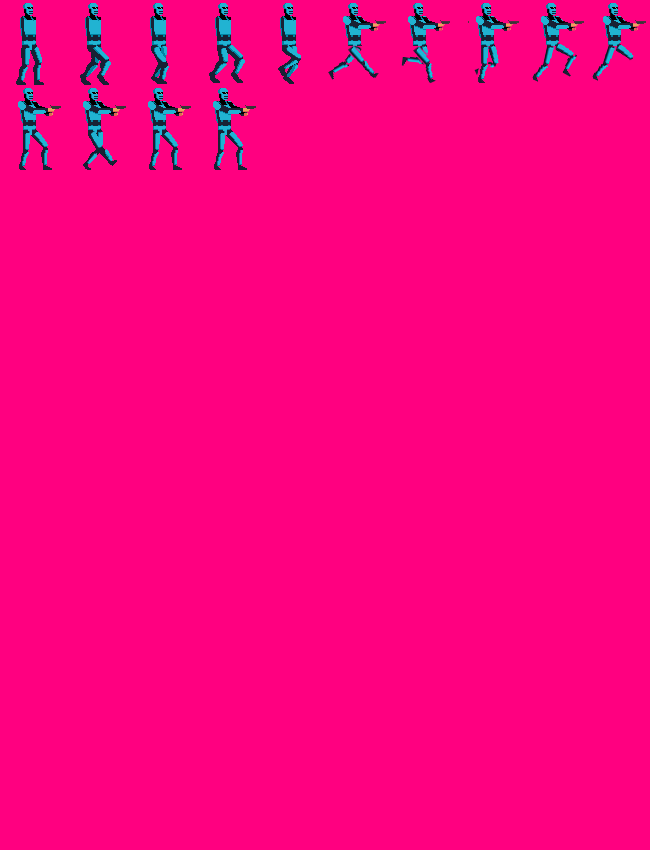
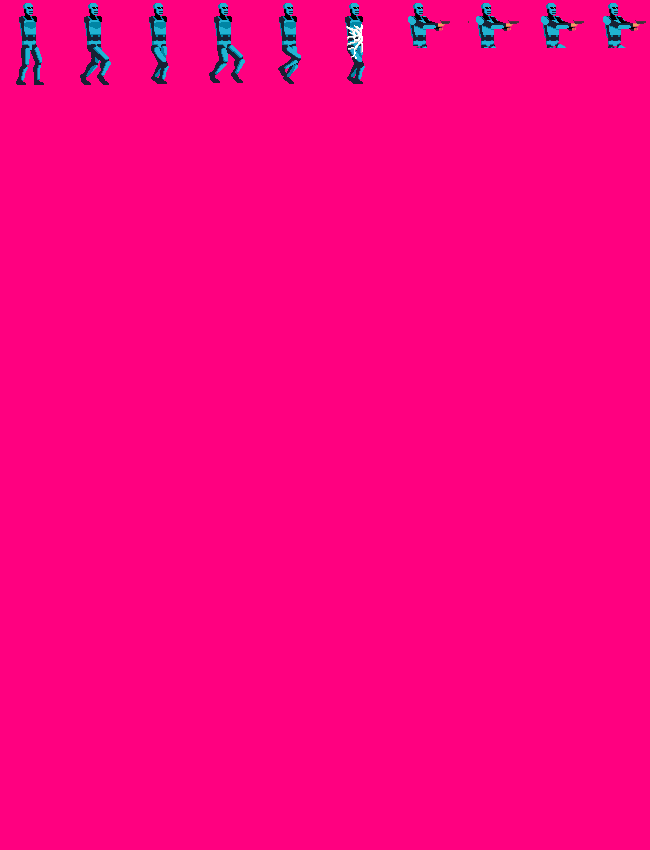
added spider blobs and webs

diff --git a/enemy.py b/enemy.py
@@ -78,6 +78,8 @@ class Spider(Enemy):
         self.frame = 0
         self.dead = False
         self.death_sound = assets.spider_death_sound
+        self.shoot_timer = 5
+        self.alt_shoot_timer = 20
 
         self.walking_frames = []
         self.death_frames = []
@@ -143,10 +145,13 @@ class Spider(Enemy):
 
     def update(self, player, world_shift, current_level):
         if self.health > 0:
-            if player.rect.x + world_shift < self.rect.x + 100:
+            if player.rect.x > self.rect.x - 800 and player.rect.x <= self.rect.x - 80:
                 self.change_x = -self.speed
-            elif player.rect.x + world_shift == self.rect.x:
+                if player.rect.x > self.rect.x - 500:
+                    self.alt_shoot_timer = self.shoot(projectiles.SpiderBlob(), self.alt_shoot_timer, player, current_level)
+            elif player.rect.x > self.rect.x - 80:
                 self.change_x = 0
+                self.shoot_timer = self.shoot(projectiles.SpiderWeb(), self.shoot_timer, player, current_level)
             else:
                 self.change_x = 0
             self.get_frame()
@@ -156,6 +161,16 @@ class Spider(Enemy):
         self.calc_grav()
         self.move()
         self.collide(current_level)
+
+    def shoot(self, projectile, timer, player, current_level):
+        timer -= 1
+        if timer == 0:
+            timer = projectile.reset_timer()
+            new_projectile = projectile
+            new_projectile.rect.x = self.rect.x + new_projectile.origin_x
+            new_projectile.rect.y = self.rect.y + new_projectile.origin_y
+            current_level.enemy_projectiles_list.add(new_projectile)
+        return(timer)
 
     def get_frame(self):
         if self.change_x > 0 or self.change_x < 0:
@@ -178,6 +193,8 @@ class Robot(Enemy):
         self.dead = False
         self.death_sound = assets.spider_death_sound
         self.shoot_timer = 60
+        self.reg_fire = type(RobotMissile())
+        self.alt_fire = None
 
         self.walking_frames = []
         self.death_frames = []
@@ -264,7 +281,6 @@ class Robot(Enemy):
         self.death_frames.append(image)
         self.death_frames.append(image)
 
-
         self.image = self.walking_frames[self.frame]
         self.rect = self.image.get_rect()
 
@@ -273,7 +289,7 @@ class Robot(Enemy):
             if player.rect.x > self.rect.x - 800 and player.rect.x < self.rect.x - 200:
                 self.change_x = -self.speed
             if player.rect.x > self.rect.x - 800:
-                self.shoot(player, current_level)
+                self.shoot(self.reg_fire, player, current_level)
                 if player.rect.x > self.rect.x - 150:
                     self.change_x = 0
             self.get_frame()
@@ -284,8 +300,7 @@ class Robot(Enemy):
         self.move()
         self.collide(current_level)
 
-    def shoot(self, player, current_level):
-        print(self.shoot_timer)
+    def shoot(self, projectile, player, current_level):
         self.shoot_timer -= 1
         if self.shoot_timer == 0:
             self.shoot_timer = random.randrange(90, 210, 30)

diff --git a/projectiles.py b/projectiles.py
@@ -1,4 +1,5 @@
 import pygame
+import random
 import assets
 
 
@@ -18,6 +19,7 @@ class Bullet(Projectile):
     def __init__(self):
         super().__init__(4, 4, 20, assets.green)
         self.damage = 10
+        self.timeout = 6000
 
 
 class RobotBullet(Projectile):
@@ -25,6 +27,7 @@ class RobotBullet(Projectile):
         super().__init__(4, 4, 10, assets.red)
         self.damage = 5
         self.change_x = self.speed
+        self.timeout = 6000
 
 
 class RobotMissile(Projectile):
@@ -32,4 +35,41 @@ class RobotMissile(Projectile):
         super().__init__(10, 6, 3, assets.red)
         self.damage = 20
         self.change_x = self.speed
+        self.timeout = 6000
+
+    def reset_timer(self):
+        time = random.randrange(60, 210, 30)
+        return time
+
+
+class SpiderWeb(Projectile):
+    def __init__(self):
+        super().__init__(100, 40, 0, assets.white)
+        self.image = assets.spider_web_image
+        self.rect = self.image.get_rect()
+        self.damage = 10
+        self.change_x = 0
+        self.timeout = 5
+        self.origin_x = -70
+        self.origin_y = -10
+
+    def reset_timer(self):
+        time = 20
+        return time
+
+
+class SpiderBlob(Projectile):
+    def __init__(self):
+        super().__init__(19, 8, 6, assets.white)
+        self.image = assets.spider_blob_image
+        self.rect = self.image.get_rect()
+        self.change_x = self.speed
+        self.damage = 0
+        self.timeout = 6000
+        self.origin_x = -22
+        self.origin_y = 15
+
+    def reset_timer(self):
+        time = random.randrange(120, 240, 30)
+        return time
 

diff --git a/levels.py b/levels.py
@@ -3,6 +3,7 @@ import assets
 import platforms
 import enemy
 import random
+from projectiles import SpiderBlob
 
 
 class Level():
@@ -27,13 +28,17 @@ class Level():
         for each in self.enemy_projectiles_list:
             each.rect.x -= each.change_x
             each.rect.y -= each.change_y
-            if each.rect.x < 0:
+            each.timeout -= 1
+            if each.timeout == 0 or each.rect.x < 0:
                 self.enemy_projectiles_list.remove(each)
         hits = pygame.sprite.spritecollide(player, self.enemy_projectiles_list, False)
         for each in hits:
             player.health -= each.damage
             self.enemy_projectiles_list.remove(each)
             assets.player_hit_sound.play()
+            if type(each) == type(SpiderBlob()) and player.webcounter == 0:
+                print("you got webbed")
+                player.webcounter = 90
         for foe in self.enemy_list:
             foe.update(player, self.world_shift, self)
 
@@ -83,7 +88,7 @@ class Level_01(Level):
             random_x = random.randint(800, 11600)
             enemies.append((random_x, 535))
         for each in enemies:
-            new_enemy = enemy.Robot()
+            new_enemy = enemy.Spider()
             new_enemy.rect.x = each[0]
             new_enemy.rect.y = each[1]
             self.enemy_list.add(new_enemy)

diff --git a/player.py b/player.py
@@ -22,6 +22,7 @@ class Player(pygame.sprite.Sprite):
         self.max_health = 100
         self.health = 100
         self.arm_state = 3
+        self.webcounter = 0
 
         self.arm_images = []
         sprite_sheet = Spritesheet("art/shootman_arms.png")
@@ -80,6 +81,9 @@ class Player(pygame.sprite.Sprite):
         image = sprite_sheet.get_image(260, 0, 65, 85)
         self.walking_frames_r.append(image)
 
+        image = sprite_sheet.get_image(325, 0, 65, 85)
+        self.walking_frames_r.append(image)
+
         self.image = self.walking_frames_r[self.frame]
 
         self.rect = self.image.get_rect()
@@ -125,14 +129,21 @@ class Player(pygame.sprite.Sprite):
             self.frame -= 1
             if self.frame < 1:
                 self.frame = 18
+        if self.webcounter > 0:
+            self.change_x = 0
+            self.change_y = 0
+            self.frame = 20
         self.image = self.walking_frames_r[self.frame]
 
     def update(self, pos):
         self.get_arm_state(pos)
-        if self.firing:
+        if self.firing and self.webcounter == 0:
             self.shoot(pos)
         # Gravity
         self.calc_grav()
+        if self.webcounter > 0:
+            self.change_x = 0
+            self.webcounter -= 1
 
         # Move left/right
         self.rect.x += self.change_x

diff --git a/assets.py b/assets.py
@@ -34,6 +34,10 @@ player_hit_sound = pygame.mixer.Sound("sound/player_hit.wav")
 game_over_sound = pygame.mixer.Sound("sound/game_over.wav")
 
 floor_image = pygame.image.load("art/floor_64.png")
+spider_web_image = pygame.image.load("art/spider_web.png")
+spider_blob_image = pygame.image.load('art/spider_blob.png')
+spider_blob_image.set_colorkey(key)
+spider_web_image.set_colorkey(key)
 
 shootman.set_colorkey(key)
 
